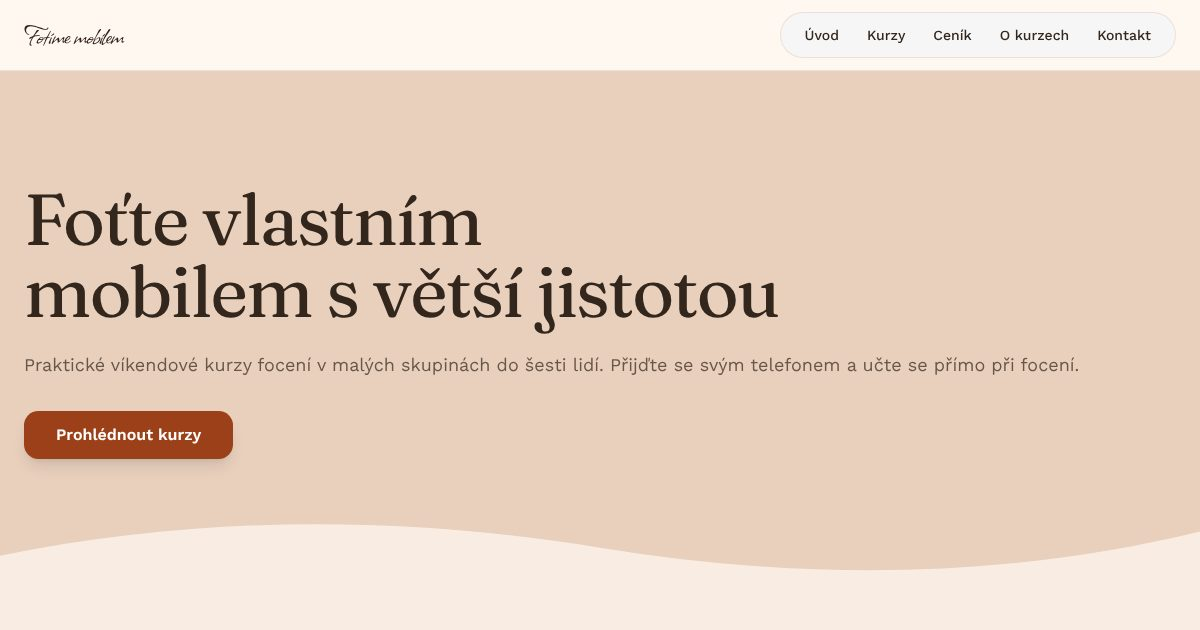
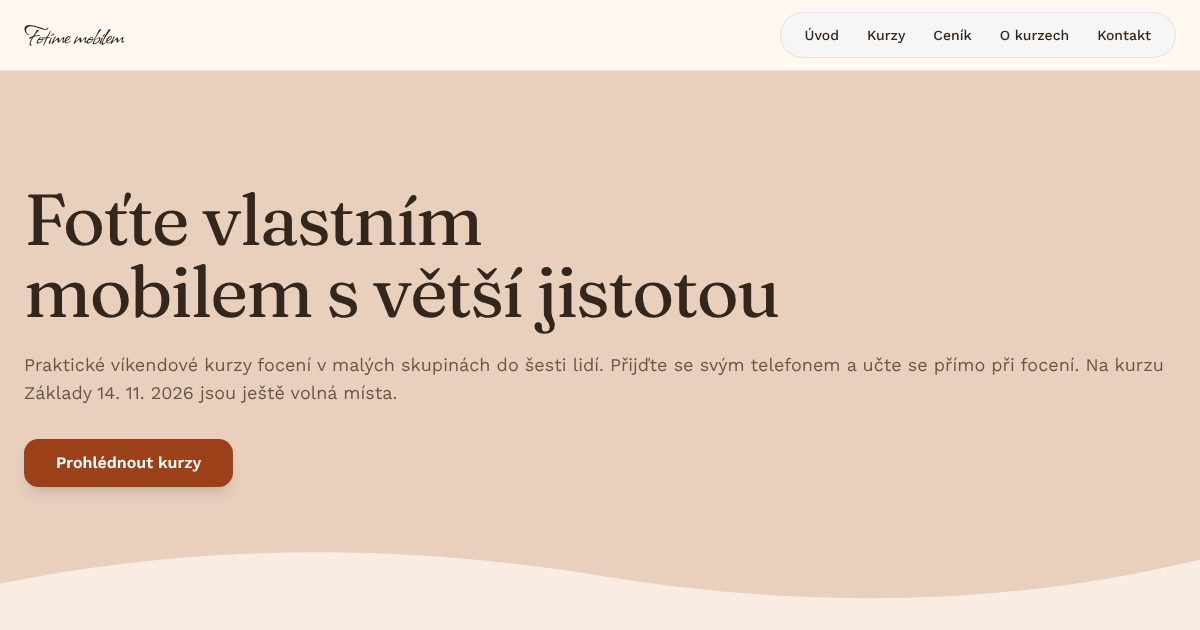
Deploy website: Fotíme mobilem

Changed region(s): [[0.0, 0.8143, 1.0, 0.9651], [0.0, 0.6032, 0.3392, 0.7841], [0.8942, 0.573, 0.9867, 0.6032]]

diff --git a/index.html b/index.html
@@ -47,7 +47,7 @@
         <div class="relative z-10 max-w-7xl mx-auto px-6 flex flex-col lg:flex-row items-center gap-12 w-full">
         <div class="flex-1 jean-panel-sticky jean-motion-layer jean-parallax-subtle" data-jean-reveal="true">
           <h1 class="text-5xl lg:text-7xl tracking-tight" data-block-id="block_hero_heading" data-block-type="text.heading" style="color:var(--color-text);font-family:var(--font-heading);font-weight:400">Foťte vlastním mobilem s větší jistotou</h1>
-          <p class="mt-6 text-lg" data-block-id="block_hero_intro" data-block-type="text.paragraph" style="color:var(--color-muted);font-family:var(--font-body);font-weight:400">Praktické víkendové kurzy focení v malých skupinách do šesti lidí. Přijďte se svým telefonem a učte se přímo při focení.</p>
+          <p class="mt-6 text-lg" data-block-id="block_hero_intro" data-block-type="text.paragraph" style="color:var(--color-muted);font-family:var(--font-body);font-weight:400">Praktické víkendové kurzy focení v malých skupinách do šesti lidí. Přijďte se svým telefonem a učte se přímo při focení. Na kurzu Základy 14. 11. 2026 jsou ještě volná místa.</p>
           <div class="mt-8"><a href="/kurzy#section_kurzy" class=" inline-block px-8 py-3 font-semibold shadow-lg" data-block-id="block_hero_courses" data-block-type="button" style="border-radius:0.9rem;color:var(--color-on-primary, #fff);background-color:var(--color-primary);border:none">Prohlédnout kurzy</a></div>
         </div>
         
